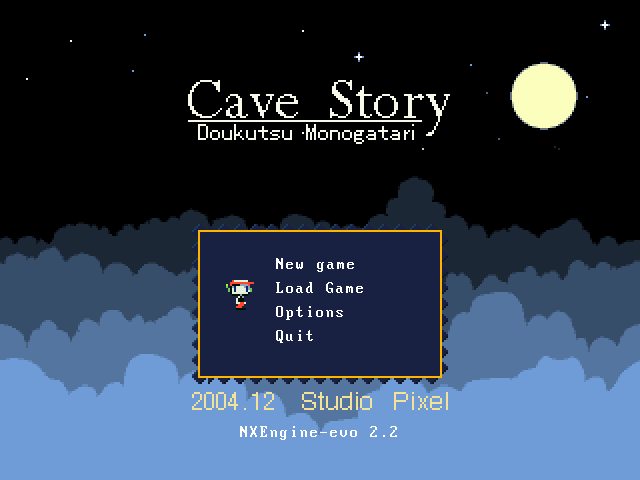
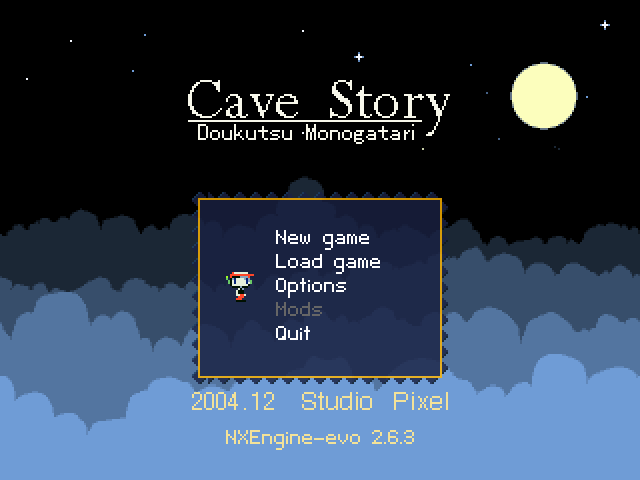
Update readme and screenshot, remove TODO

diff --git a/README.md b/README.md
@@ -15,20 +15,18 @@ This is a somewhat upgraded/refactored version of [nxengine](http://nxengine.sou
 ## Differences from original nxengine:
 
 * Port to SDL2 ( thanks to https://github.com/PIlin/NXEngine-iOS )
-* More resolutions and widescreen support up to FullHD (thanks to https://github.com/EXL/NXEngine )
-* Fullscreen for any resolution
+* More resolutions and proper widescreen support up to FullHD (thanks to https://github.com/EXL/NXEngine )
+* Fixed tons of gameplay bugs.
 * Gamepad with force-feedback support.
 * Localization support.
-* Mimiga mask ending pictures (re-drawn by me)
-* Modern main menu
-* Support for "New" and "Remastered" tracks from CS+
-* Header-dependency hell cleaned up. No more autogenerated headers
-* Cleaned up nx.h
-* Lists/maps from haiku replaced with std::vector/map
-* smalfont -> smallfont
-* removed built-in data extractor
-* removed replays, as they were buggy/not implemented anyway
-* fixed tons of warnings and undefined behaviour
+* Mimiga mask ending pictures.
+* Animated facepics.
+* Modern main menu.
+* Support for custom soundtracks.
+* Initial mod support.
+* Cleaner and partly refactored code.
+* Removed built-in data extractor.
+* Removed replays, as they were buggy/not implemented anyway.
 
 ## Building
 * [Linux](https://github.com/nxengine/nxengine-evo/wiki/Building-linux-version)
@@ -39,8 +37,6 @@ This is a somewhat upgraded/refactored version of [nxengine](http://nxengine.sou
 ## Running
  * For source builds see [Running](https://github.com/nxengine/nxengine-evo/wiki/Running) on wiki.
  * or just use prepackaged [releases](https://github.com/nxengine/nxengine-evo/releases)
-   (OSX builds are done on 10.10, so that's a minimum requirement, windows builds require [MSVC2015 runtime](https://www.microsoft.com/en-us/download/details.aspx?id=53587)
-
-Look in TODO.md for upcoming features
+   (OSX builds are done on 10.13, so that's a minimum requirement, windows builds require [MSVC2015 runtime](https://www.microsoft.com/en-us/download/details.aspx?id=53587)
 
 May (and most definitely) contain bugs.
